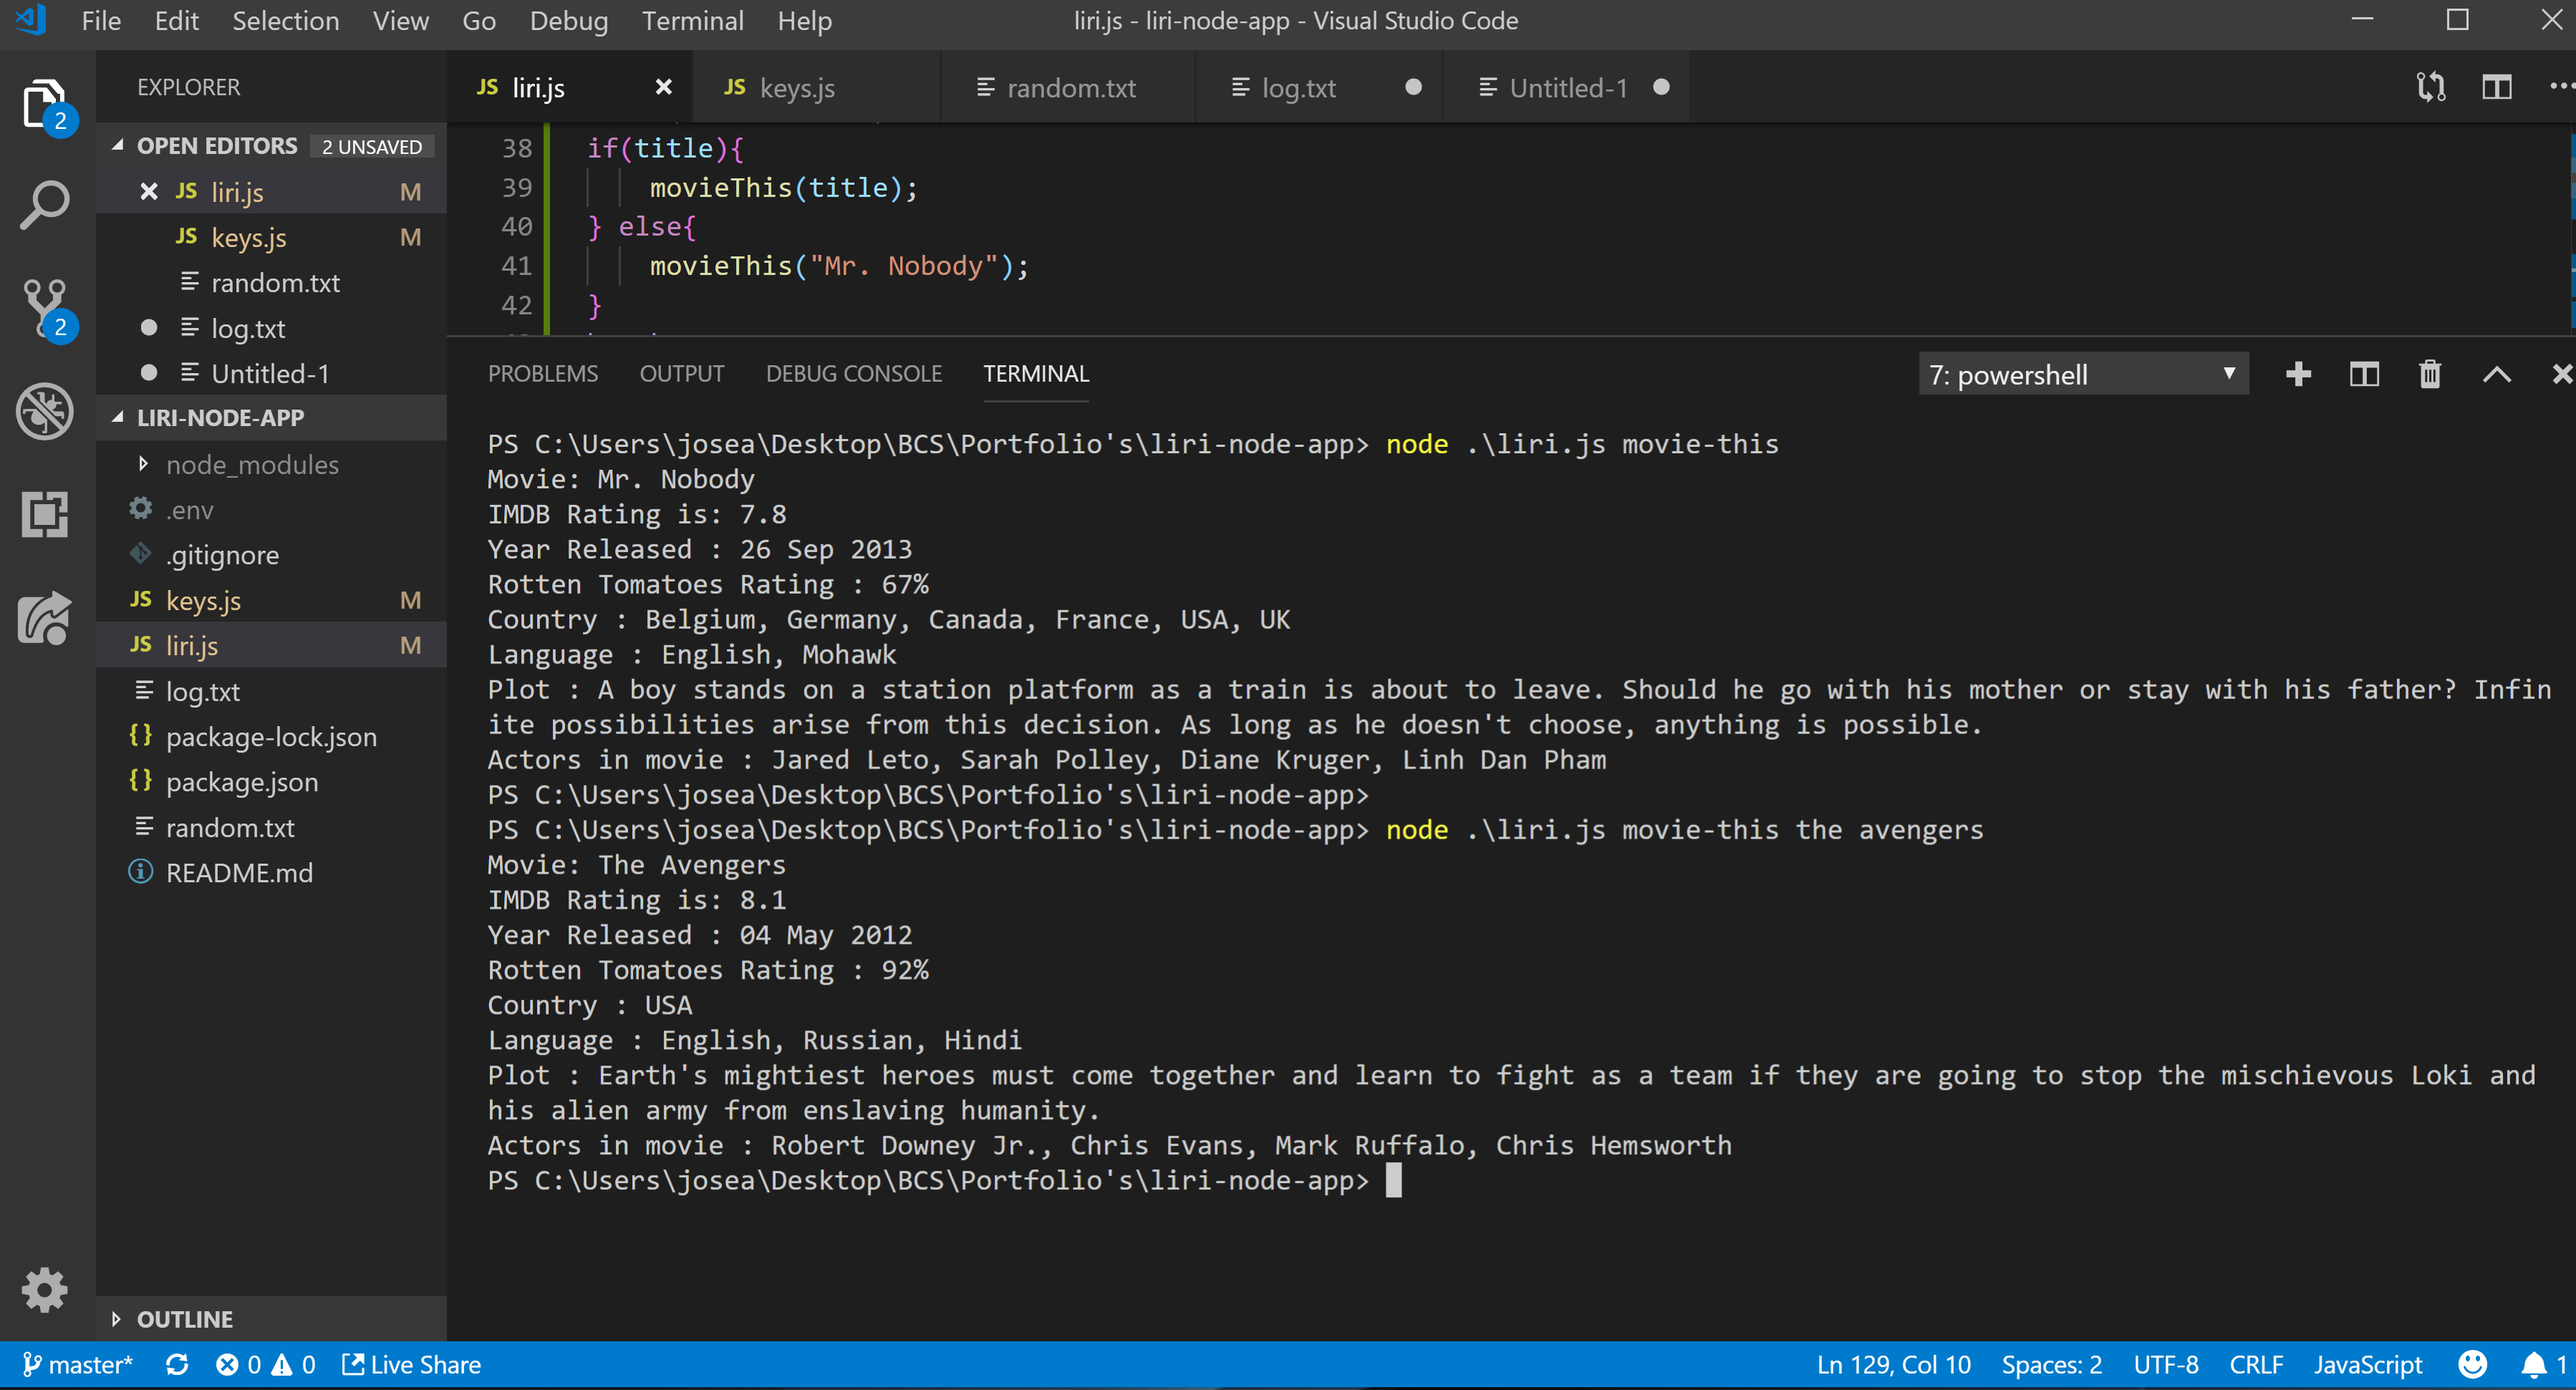
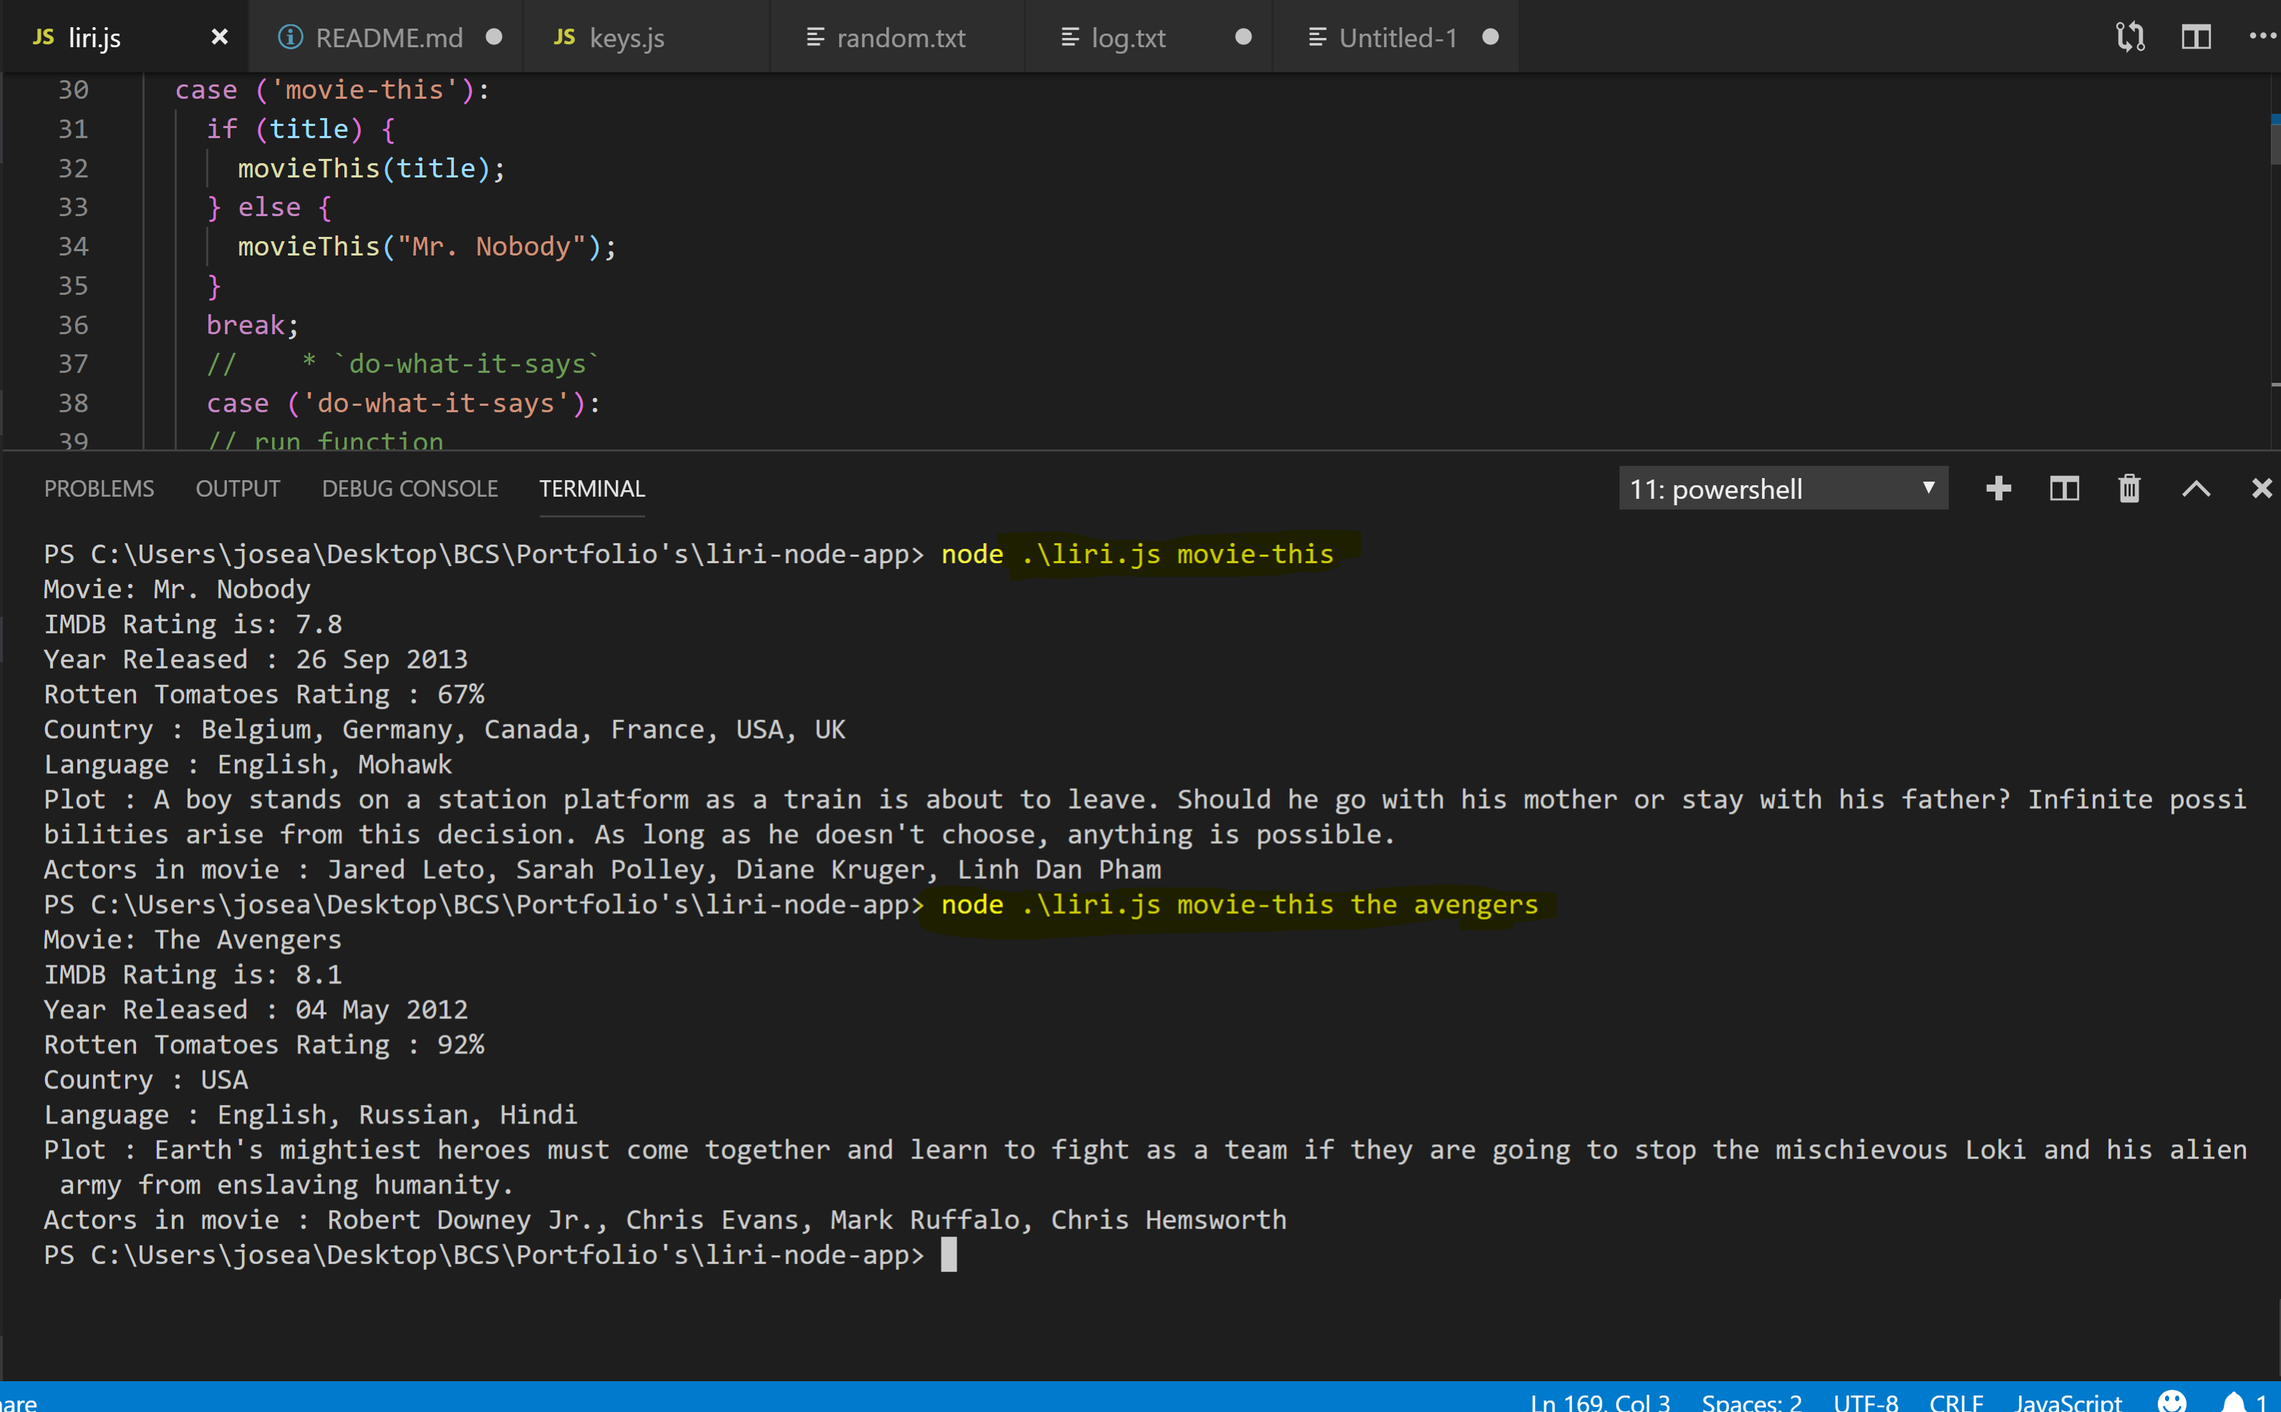
updated pics with switch statements, doThis() works but calls spotifyThis() else part with it

diff --git a/liri.js b/liri.js
@@ -23,7 +23,7 @@ switch (action) {
     if (title) {
       spotifyThis(title);
     } else {
-      spotifyThis("I want it that way");
+      spotifyThis("The Sign Ace of Base");
     }
     break;
   //   movieThis(title)
@@ -34,12 +34,12 @@ switch (action) {
       movieThis("Mr. Nobody");
     }
     break;
-    //    * `do-what-it-says` 
-    case ('do-what-it-says'):
+  //    * `do-what-it-says` 
+  case ('do-what-it-says'):
     // run function
     doThis()
     break;
-    }
+}
 //    * `concert-this`
 
 //   ### What Each Command Should Do
@@ -151,25 +151,25 @@ function movieThis(show) {
 // 4. `node liri.js do-what-it-says`
 ////////////////////////////////////////////////////////////////////////////////////////////////////////////////////////////////////////////////////////////////////////
 
-function doThis () {
+function doThis() {
   // This block of code will read from the "random.txt" file.
-// It's important to include the "utf8" parameter or the code will provide stream data (garbage)
-// The code will store the contents of the reading inside the variable "data"
-fs.readFile("./random.txt", "utf8", function(error, data) {
-  // If the code experiences any errors it will log the error to the console.
-  if (error) {
-    return console.log(error);
-  }
-  // We will then print the contents of data
-  console.log(data);
-  // Then split it by commas (to make it more readable)
-  var dataArr = data.split(",");
-  // We will then re-display the content as an array for later use.
-  // console.log(dataArr);
-  spotifyThis(dataArr[1]);
-});
+  // It's important to include the "utf8" parameter or the code will provide stream data (garbage)
+  // The code will store the contents of the reading inside the variable "data"
+  fs.readFile("./random.txt", "utf8", function (error, data) {
+    // If the code experiences any errors it will log the error to the console.
+    if (error) {
+      return console.log(error);
+    }
+    // We will then print the contents of data
+    console.log(data);
+    // Then split it by commas (to make it more readable)
+    var dataArr = data.split(",");
+    // We will then re-display the content as an array for later use.
+    // console.log(dataArr);
+    spotifyThis(dataArr[1]);
+  });
 }
-// Pseudo-code for do-what-it-says 
+// Pseudo-code for do-what-it-says
 // use fs.read to read random.txt,
 // .txt will be in string format, 
 //  split string by using an array, then grab action and title 

diff --git a/README.md b/README.md
@@ -1,5 +1,16 @@
 # liri-node-app
 
+Note: 
+Function movieThis () works well.
+Function spotifyThis () works well.
+Function doThis() works but also calls function spotifyThis() as if a title was not input.
+
+
+
+
+
+
+
 ## Submission Guide
 
 Create and use a standard GitHub repository. As this is a CLI App, it cannot be deployed to GitHub pages or Heroku. This time you'll need to include screenshots, a GIF, and/or a video showing us that you have the app working with no bugs. You can include these screenshots/GIFs or a link to a video in a `README.md` file.
